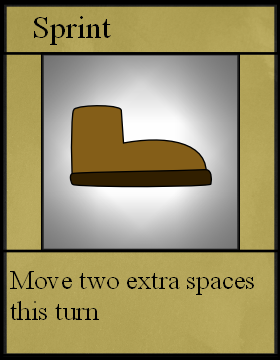
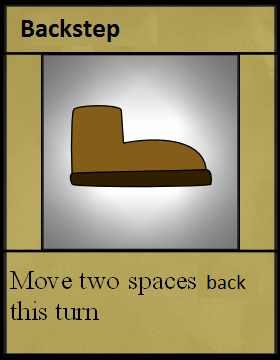
Fixed a bug with poison and balanced cards somewhat more

Changed region(s): [[0.4571, 0.7639, 0.9143, 0.825], [0.0571, 0.0306, 0.4286, 0.1222]]

diff --git a/src/Board.java b/src/Board.java
@@ -112,8 +112,8 @@ public class Board {
         for(int i = 1; i<BOARDSIZE; i++) {
             squares[i] = new Square((i*70)+20,250,0,0, i,Character.elementalType.NONE);
         }
-        squares[11] = new Square(11*70+20,250,2,4,11,Character.elementalType.values()[rand.nextInt(3)]);
-        squares[13] = new Square(13*70+20,250,2,4,13,Character.elementalType.values()[rand.nextInt(3)]);
+        squares[11] = new Square(11*70+20,250,2,4+level,11,Character.elementalType.values()[rand.nextInt(3)]);
+        squares[13] = new Square(13*70+20,250,2,4+level,13,Character.elementalType.values()[rand.nextInt(3)]);
         playerLocation=0;
 
     }
@@ -122,7 +122,7 @@ public class Board {
        if ((playerLocation + MOVESPEED)>=BOARDSIZE) {
             setupLevel();
         }
-        else if(squares[playerLocation+MOVESPEED].isOccupied==false){
+        else if(!squares[playerLocation+MOVESPEED].isOccupied){
             squares[playerLocation].moveContents(squares[playerLocation+MOVESPEED]);
             playerLocation+=MOVESPEED;
         }
@@ -138,6 +138,10 @@ public class Board {
             squares[playerLocation].moveContents(squares[0]);
             playerLocation = 0;
         }
+        else if(distance<0){
+            squares[playerLocation].moveContents(squares[playerLocation+distance]);
+            playerLocation+=distance;
+        }
         else{
             for(i = 1; i <= distance;i++){
                 if(squares[playerLocation+i].isOccupied)
@@ -150,6 +154,8 @@ public class Board {
 
     public void enemyTurn(){
         for(int i = 1; i<BOARDSIZE; i++) {
+            if (squares[i].occupiedCharacter.poisonStacks>0)
+                damageSquare(squares[i].occupiedCharacter.poisonStacks,i-playerLocation, Character.elementalType.NONE);
             if ((squares[i].isOccupied) &&squares[i].occupiedCharacter.enemyType>1&&squares[i].occupiedCharacter.enemyType<6){
                 if(squares[i].occupiedCharacter.stunnedTimer<=0){
                     if(squares[i-1].isOccupied){
@@ -169,8 +175,6 @@ public class Board {
                         squares[i].moveContents(squares[i - 1]);
                     }
                 }
-                if (squares[i].occupiedCharacter.poisonStacks>0)
-                    damageSquare(squares[i].occupiedCharacter.poisonStacks,i-playerLocation, Character.elementalType.EARTH);
             }
 
 

diff --git a/src/Driver.java b/src/Driver.java
@@ -240,7 +240,6 @@ public class Driver extends Audio
             case 12: // Poison Dart
                 Audio.poisonDart();
                 gameBoard.castBolt(1, Character.elementalType.EARTH,false,true);
-                gameBoard.castBolt(1, Character.elementalType.EARTH,false,false);
                 break;
             case 13: // Shock
                 Audio.lightning();
@@ -250,9 +249,9 @@ public class Driver extends Audio
                 Audio.fireball();
                 gameBoard.damageSquare(3,1, Character.elementalType.FIRE);
                 break;
-            case 15: // Shoes
+            case 15: // Backstep
                 Audio.running();
-                gameBoard.playerMove(3);
+                gameBoard.playerMove(-2);
                 break;
             case 16: //Electric Punch
                 Audio.lightning();
